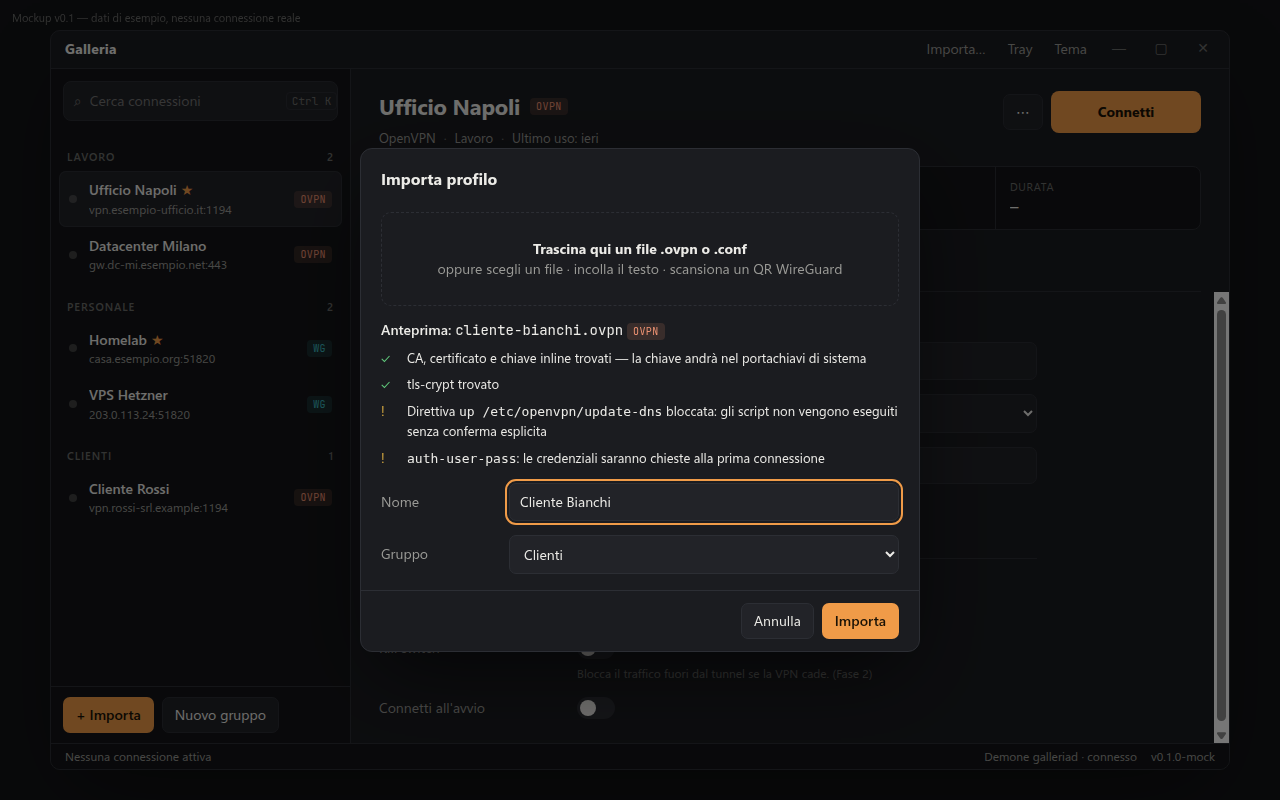
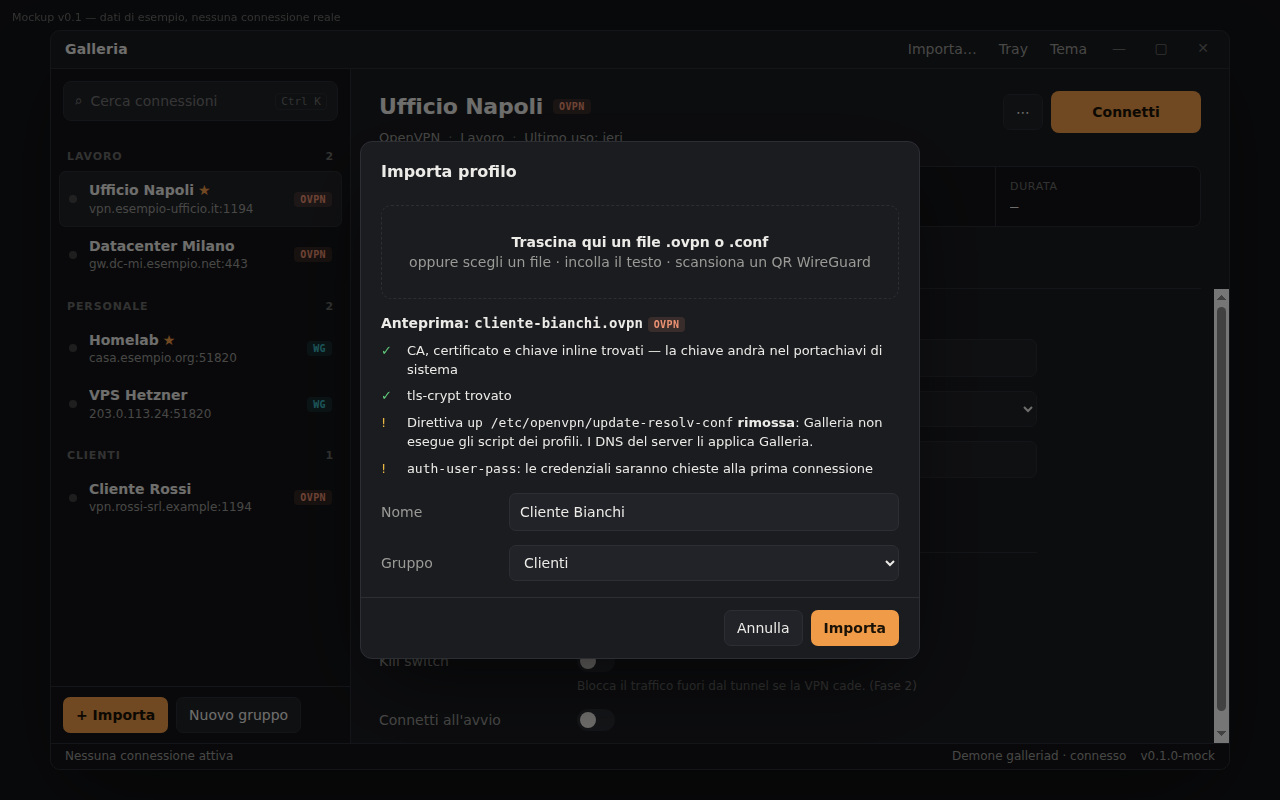
align mockup with d19 and d20: removed scripts, log export

diff --git a/design/mockup/Rubrica.html b/design/mockup/Rubrica.html
@@ -169,7 +169,7 @@ section.detail{display:flex;flex-direction:column;min-height:0;min-width:0}
       <div style="color:var(--ink);font-weight:600;margin-top:14px">Anteprima: <span style="font-family:var(--mono)">cliente-bianchi.ovpn</span> <span class="proto ovpn">OVPN</span></div>
       <div class="check"><span class="g">✓</span><span>CA, certificato e chiave inline trovati — la chiave andrà nel portachiavi di sistema</span></div>
       <div class="check"><span class="g">✓</span><span>tls-crypt trovato</span></div>
-      <div class="check"><span class="w">!</span><span>Direttiva <code>up /etc/openvpn/update-dns</code> bloccata: gli script non vengono eseguiti senza conferma esplicita</span></div>
+      <div class="check"><span class="w">!</span><span>Direttiva <code>up /etc/openvpn/update-resolv-conf</code> <b>rimossa</b>: Galleria non esegue gli script dei profili. I DNS del server li applica Galleria.</span></div>
       <div class="check"><span class="w">!</span><span><code>auth-user-pass</code>: le credenziali saranno chieste alla prima connessione</span></div>
       <div class="form" style="grid-template-columns:110px 1fr;margin-top:14px">
         <label>Nome</label><input class="field" value="Cliente Bianchi">
@@ -321,18 +321,18 @@ ${p.auth!=="cert"?"auth-user-pass\n":""}verb 3
 <key>  <portachiavi:${p.id}/key>  </key>`)}</textarea>`;
   if(tab==="log"){
     const me=p.id===active&&state==="on";
-    return `<div class="rawbar"><span>Ultima sessione</span><span style="margin-left:auto"></span><button class="btn">Copia</button><button class="btn">Apri cartella log</button></div>
+    return `<div class="rawbar"><span>${p.id===active&&state!=="off"?"Sessione corrente":"Ultima sessione"}</span><span style="margin-left:auto"></span><button class="btn">Copia</button><button class="btn">Esporta log…</button></div>
     <div class="log">${me?(p.proto==="wg"?
-`<span class="t">10:42:01</span> <span class="i">Creazione interfaccia galleria0</span>
-<span class="t">10:42:01</span> <span class="i">Configurazione peer ${esc(p.server)}</span>
-<span class="t">10:42:02</span> <span class="i">DNS impostato: ${esc(p.dns)}</span>
-<span class="t">10:42:02</span> <span class="g">Handshake completato</span>`:
-`<span class="t">10:42:01</span> <span class="i">OpenVPN 2.6 avviato (management 127.0.0.1)</span>
-<span class="t">10:42:01</span> <span class="i">TCP/UDP: connessione a ${esc(p.server)}</span>
-<span class="t">10:42:02</span> <span class="i">Verifica certificato server: OK</span>
-<span class="t">10:42:02</span> <span class="w">WARNING: direttiva 'up' ignorata (script disabilitati)</span>
-<span class="t">10:42:03</span> <span class="i">PUSH: route ${esc(p.routes)}</span>
-<span class="t">10:42:03</span> <span class="g">Initialization Sequence Completed</span>`):`<span class="t">Nessun log per la sessione corrente. Connetti per vedere l'output in tempo reale.</span>`}</div>`;
+`<span class="t">10:42:01</span> <span class="i">interface glr-wg0 created</span>
+<span class="t">10:42:01</span> <span class="i">peer ${esc(p.server)} configured</span>
+<span class="t">10:42:02</span> <span class="i">DNS applied: ${esc(p.dns)}</span>
+<span class="t">10:42:02</span> <span class="g">handshake completed</span>`:
+`<span class="t">10:42:01</span> <span class="i">OpenVPN 2.6.19 x86_64-pc-linux-gnu</span>
+<span class="t">10:42:01</span> <span class="i">UDPv4 link remote: [AF_INET]${esc(p.server)}</span>
+<span class="t">10:42:02</span> <span class="i">VERIFY OK: depth=0, CN=vpn-server</span>
+<span class="t">10:42:03</span> <span class="i">PUSH: Received control message: 'PUSH_REPLY,route ${esc(p.routes)}'</span>
+<span class="t">10:42:03</span> <span class="i">TUN/TAP device glr-ovpn0 opened</span>
+<span class="t">10:42:03</span> <span class="g">Initialization Sequence Completed</span>`):`<span class="t">Nessun log. Connetti per vedere l'output in tempo reale.</span>`}</div>`;
   }
 }
 
@@ -386,7 +386,7 @@ document.addEventListener("click",e=>{
 });
 $("#q").oninput=renderList;
 $("#bImport").onclick=$("#bImport2").onclick=()=>open("#mImport");
-$("#doImport").onclick=()=>{if(!P("bianchi"))profiles.push({id:"bianchi",name:"Cliente Bianchi",proto:"ovpn",group:"Clienti",server:"vpn.bianchi.example:1194",transport:"UDP",auth:"cert+user",dns:"Sistema",routes:"10.50.0.0/24",full:false,used:"mai"});sel="bianchi";tab="gen";close();render();toast("Importato: Cliente Bianchi — 1 direttiva bloccata")};
+$("#doImport").onclick=()=>{if(!P("bianchi"))profiles.push({id:"bianchi",name:"Cliente Bianchi",proto:"ovpn",group:"Clienti",server:"vpn.bianchi.example:1194",transport:"UDP",auth:"cert+user",dns:"Sistema",routes:"10.50.0.0/24",full:false,used:"mai"});sel="bianchi";tab="gen";close();render();toast("Importato: Cliente Bianchi — 1 direttiva rimossa")};
 $("#bTray").onclick=()=>$("#tray").classList.toggle("show");
 $("#bTheme").onclick=()=>{const r=document.documentElement;r.dataset.theme=r.dataset.theme==="light"?"":"light"};
 document.addEventListener("keydown",e=>{
